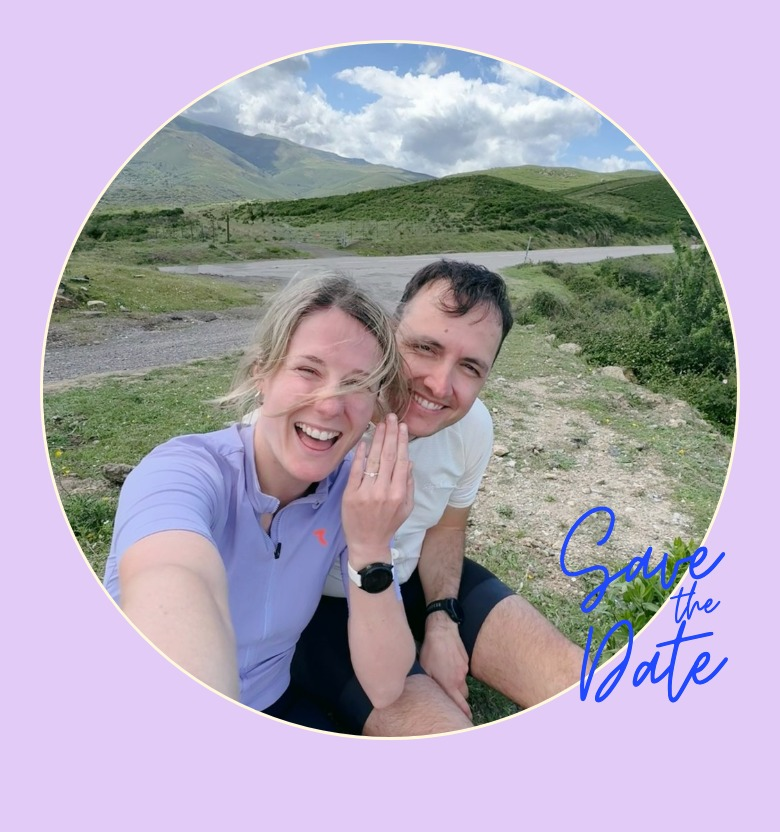
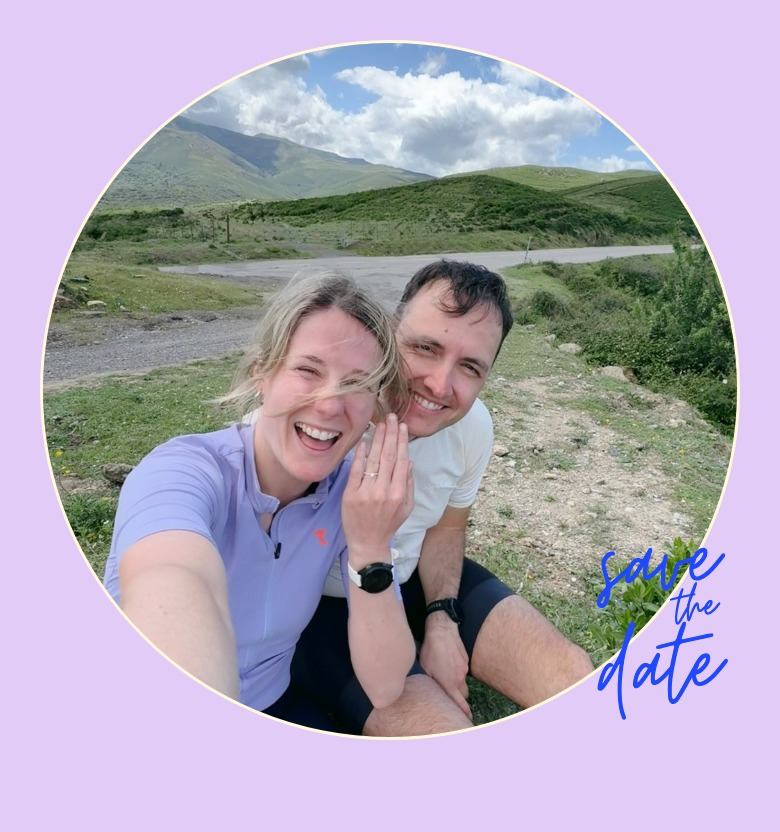
Add files via upload

Changed region(s): [[0.7077, 0.5938, 0.9231, 0.875]]

diff --git a/index.html b/index.html
@@ -6,8 +6,7 @@
 <title>save the date – Sophia & Stefan</title>
 <meta name="description" content="Sophia & Stefan – Save the Date, 10.07.2027, Schornhof Wolfach">
 
-<meta property="og:title" content="Sophia & Stefan">
-<meta property="og:description" content="10.07.2027 · Schornhof Wolfach">
+<meta property="og:title" content="💍 save the date – Sophia & Stefan">
 <meta property="og:type" content="website">
 <meta property="og:url" content="https://lesto17.github.io/save-the-date/">
 <meta property="og:image" content="https://lesto17.github.io/save-the-date/og-image.jpg">
